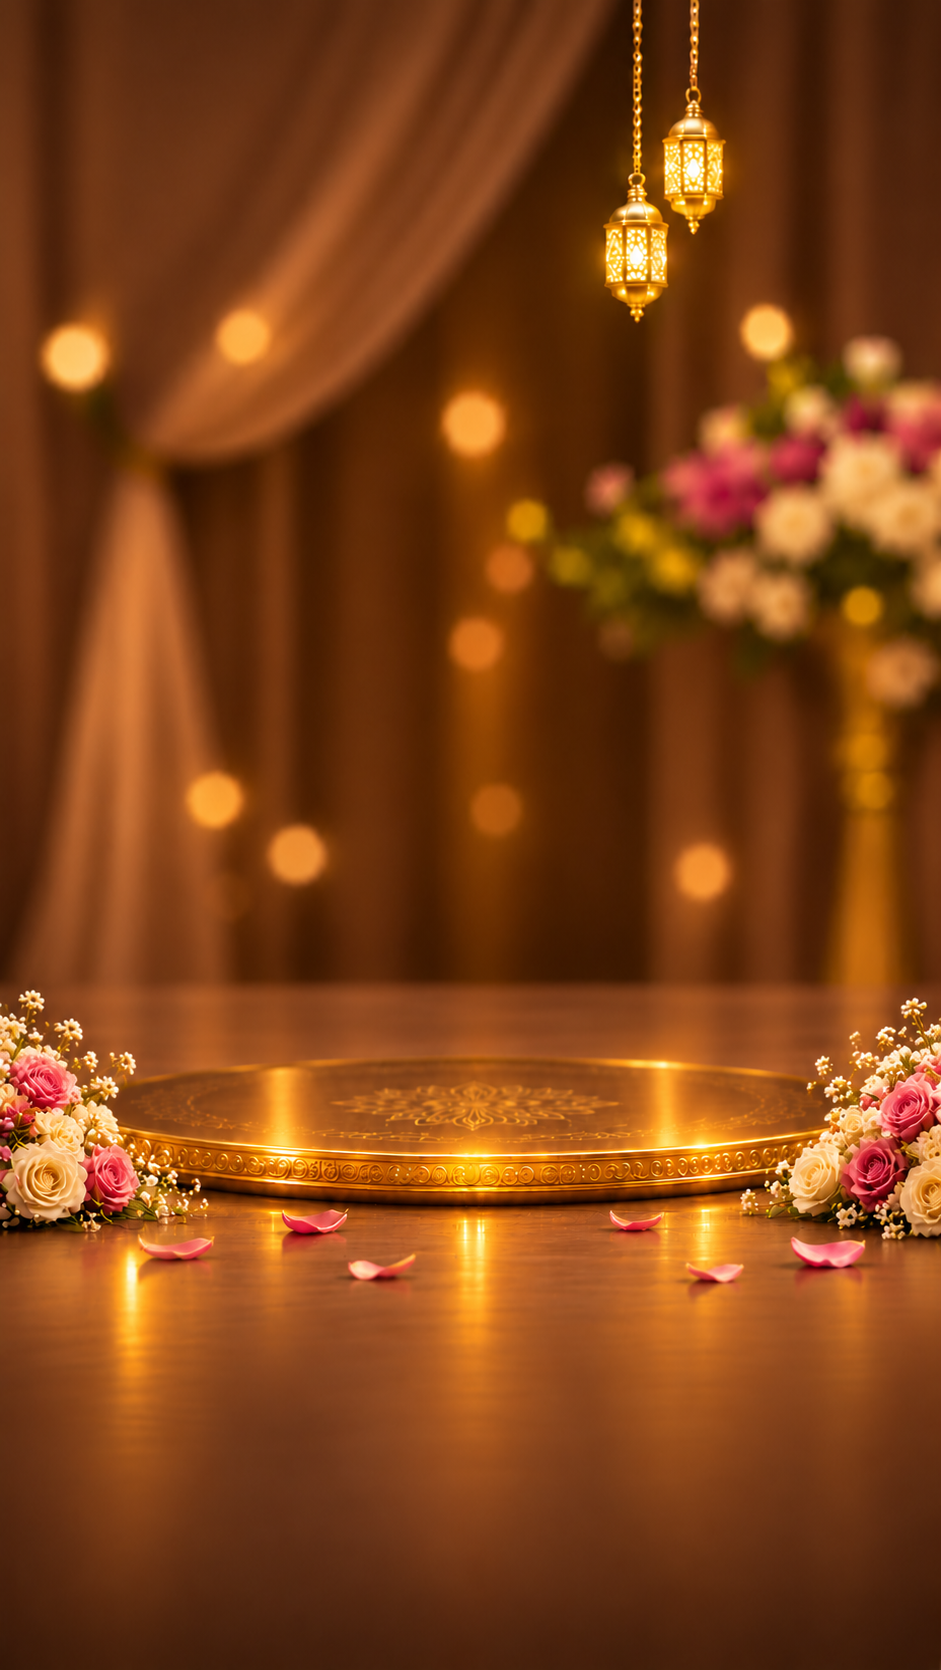
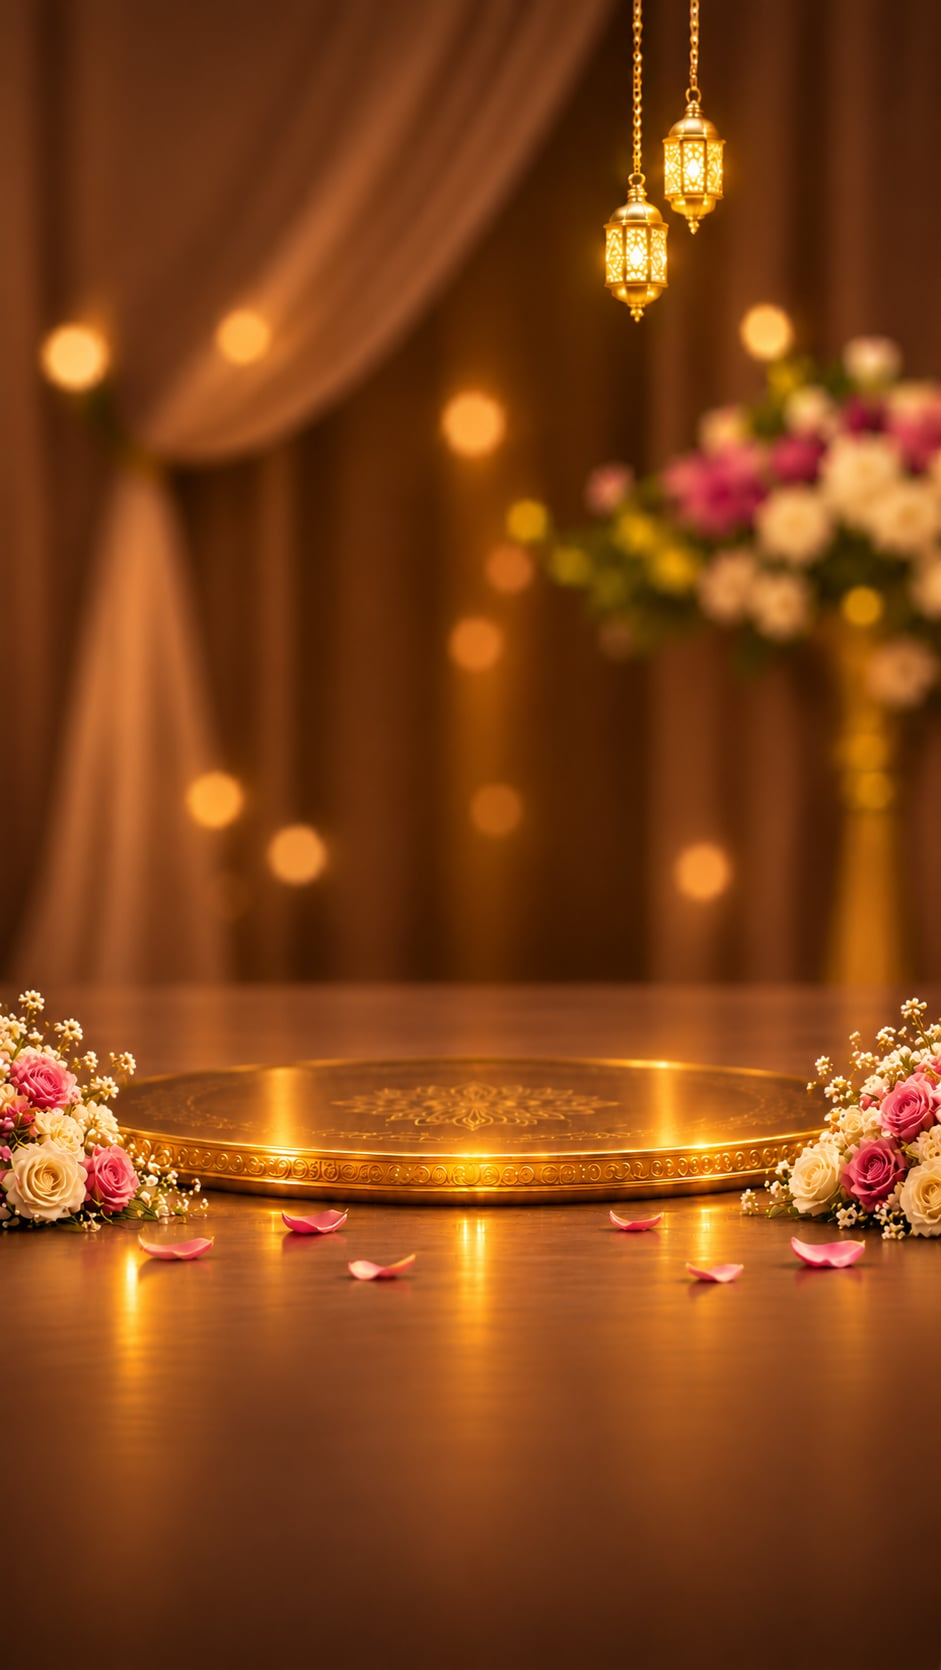
perf(assets): optimize background image from 1.6MB to 73KB WebP and 116KB progressive JPEG

diff --git a/src/components/invitation/InvitationExperience.tsx b/src/components/invitation/InvitationExperience.tsx
@@ -56,13 +56,18 @@ export function InvitationExperience({
 
   return (
     <main className="relative w-screen h-screen overflow-hidden bg-[#0c0a09] select-none">
-      {/* 1. Overall space luxury banquet backdrop */}
+      {/* 1. Overall space luxury banquet backdrop (Optimized WebP & Progressive JPEG for instant loading) */}
       <div className="absolute inset-0 pointer-events-none overflow-hidden select-none">
-        <img
-          src="/images/space_background.jpg"
-          alt="Wedding venue ambience"
-          className="w-full h-full object-cover object-center brightness-105 contrast-[1.02]"
-        />
+        <picture>
+          <source srcSet="/images/space_background.webp" type="image/webp" />
+          <img
+            src="/images/space_background.jpg"
+            alt="Wedding venue ambience"
+            className="w-full h-full object-cover object-center brightness-105 contrast-[1.02]"
+            loading="eager"
+            decoding="async"
+          />
+        </picture>
         {/* Soft, light vignette solely at the bottom edge for button contrast, keeping the background bright & luminous */}
         <div className="absolute inset-0 bg-gradient-to-t from-black/35 via-transparent to-transparent pointer-events-none" />
       </div>
